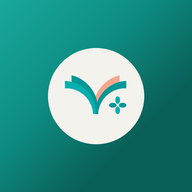
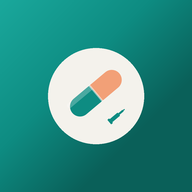
v3.7.0: ออกแบบไอคอนแอพใหม่ — แคปซูลยา + เข็มฉีดยา แทนตรารพ.โดยตรง
ผู้ใช้ขอให้ไม่ใช้ตรารพ.เป็นไอคอนแอพตรงๆ แต่ให้ดัดแปลงสไตล์/สีของตรารพ.มา
ออกแบบเป็นสัญลักษณ์ทางยา (เม็ดยา ยาฉีด ยาทา) แทน

- มาร์กหลัก: แคปซูลยาสองสี (เทอร์ควอยซ์ + ส้ม coral) วางแนวทแยง — ใช้จานสี
  เดียวกับตรารพ.เป๊ะ แต่รูปทรงเป็นสัญลักษณ์ยาสากลที่จำได้ทันที
- มาร์กรอง: เข็มฉีดยาตัวเล็กมุมล่างขวา แยกจากแคปซูลชัดเจน — เล่นบทบาทเดียว
  กับดอกไม้สี่กลีบเล็กๆ ในตรารพ.เดิม
- พื้นหลัง gradient เทอร์ควอยซ์ + แผ่นวงกลมครีมตรงกลางเหมือนเดิม
- อัปเดต icon-192/512, apple-touch-icon, icon-maskable-192/512 (ชื่อไฟล์เดิม)
- ตรารพ.ไฟล์จริงที่หน้า login และหัวกระดาษเอกสารพิมพ์ไม่เปลี่ยน — เปลี่ยน
  เฉพาะไอคอนแอพ (favicon/PWA icon) เท่านั้น

ตรวจสอบแล้ว: tsc -b ผ่าน, npm test 75/75 ผ่าน, npm run build สำเร็จ

Claude-Session: https://claude.ai/code/session_017ScEEJXyYsYTMjkuNbqpj1

Changed region(s): [[0.3125, 0.3438, 0.6875, 0.625], [0.5625, 0.5, 0.6562, 0.6562]]

diff --git a/CHANGELOG.md b/CHANGELOG.md
@@ -7,6 +7,24 @@
 > และไม่มีเครื่องมือสำหรับสร้าง GitHub Release ในชุดเครื่องมือที่ใช้งานได้ จึงใช้ไฟล์นี้ + `VERSION`
 > เป็นแหล่งความจริงของเลขเวอร์ชันแทน จนกว่าจะแก้ข้อจำกัดนั้นได้
 
+## [3.7.0] - 2026-09-08
+
+### Changed
+- **ออกแบบไอคอนแอพใหม่อีกครั้ง — เม็ดยาแคปซูล + เข็มฉีดยา แทนตรารพ.โดยตรง** — ผู้ใช้ขอให้ไม่ใช้
+  ตรารพ.เป็นไอคอนแอพตรงๆ แต่ให้ "ดัดแปลง" นำสไตล์/สีของตรารพ.มาออกแบบเป็นสัญลักษณ์ทางยา (เม็ดยา
+  ยาฉีด ยาทา) แทน — ให้ไอคอนสื่อว่าเป็นแอพเภสัชกรรมชัดเจนขึ้น ไม่ใช่แค่โลโก้องค์กร
+  - มาร์กหลัก: **แคปซูลยาสองสี** (เทอร์ควอยซ์ + ส้ม coral) วางแนวทแยง — ใช้จานสีเดียวกับตรารพ.
+    เป๊ะ (ทั้งสองโทนหลัก) ให้ยังรู้สึกเป็นแบรนด์เดียวกัน แต่รูปทรงเป็นสัญลักษณ์ยาสากลที่จำได้ทันที
+  - มาร์กรอง: **เข็มฉีดยา** ตัวเล็กมุมล่างขวา แยกออกจากแคปซูลชัดเจน — เล่นบทบาทเดียวกับดอกไม้
+    สี่กลีบเล็กๆ ในตรารพ.เดิม (จุดเสริมรอง ไม่ใช่มาร์กหลัก)
+  - พื้นหลัง gradient เทอร์ควอยซ์ + แผ่นวงกลมครีมตรงกลางเหมือนเดิม (คงชุดภาษาการออกแบบเดียวกัน
+    ต่อเนื่องจากไอคอนก่อนหน้า)
+  - อัปเดต icon-192/512, apple-touch-icon, icon-maskable-192/512 ทั้งชุด (ชื่อไฟล์เดิม)
+  - ตรารพ.ไฟล์จริงยังคงอยู่ที่หน้า login และหัวกระดาษเอกสารพิมพ์เหมือนเดิม ไม่เปลี่ยน — จุดนี้
+    เปลี่ยนเฉพาะไอคอนแอพ (favicon/PWA icon) เท่านั้น
+
+ตรวจสอบแล้ว: tsc -b ผ่าน, npm test 75/75 ผ่าน, npm run build สำเร็จ
+
 ## [3.6.0] - 2026-09-08
 
 ### Changed
